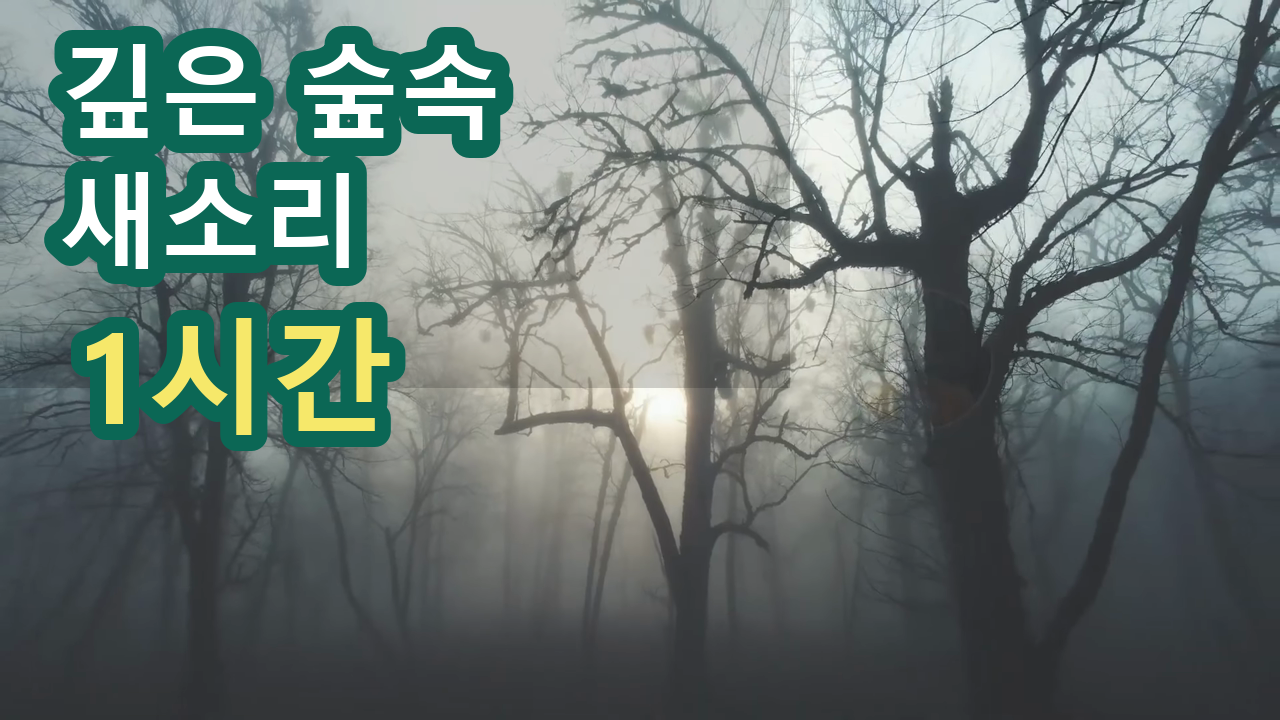
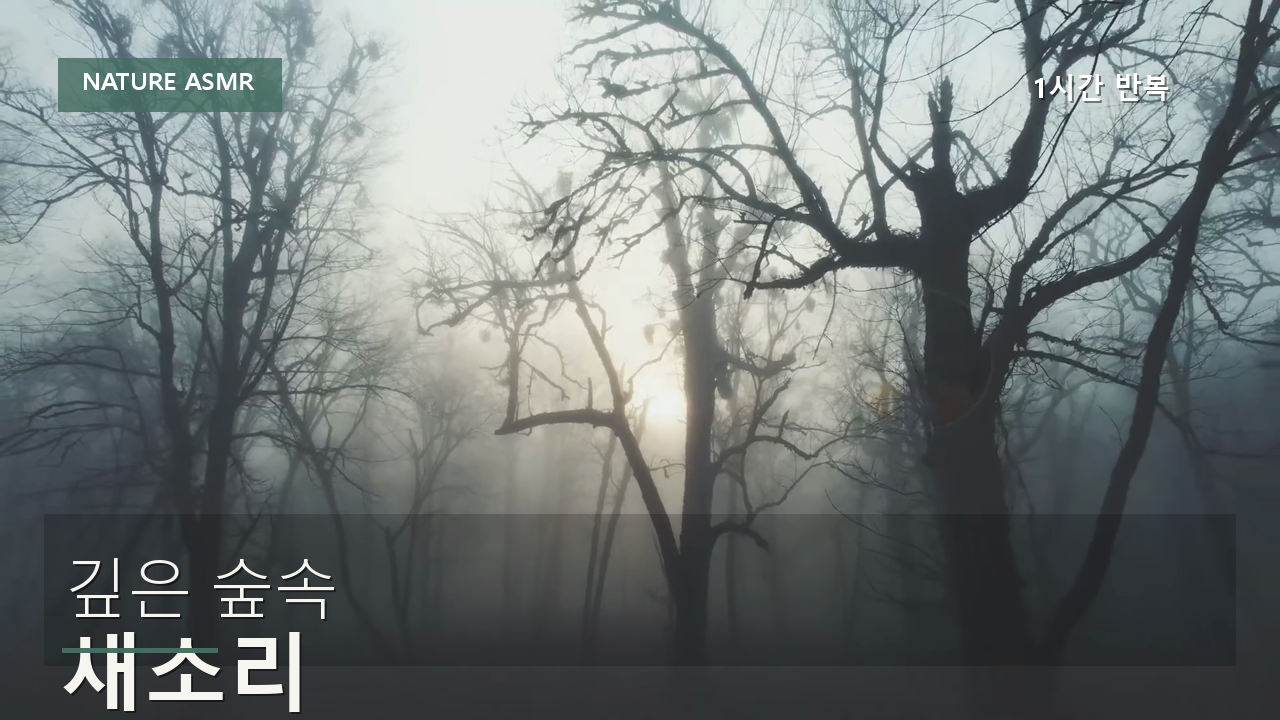
Unify nature series thumbnails

diff --git a/scripts/refresh-nature-series-thumbnails.ts b/scripts/refresh-nature-series-thumbnails.ts
@@ -14,11 +14,11 @@ interface ThemeThumbnailSpec {
   footageFileName: string;
   frameSeconds: number;
   headlineLines: [string, string];
-  accentFill: string;
-  accentBorder: string;
 }
 
+const FONT_REGULAR = "C\\:/Windows/Fonts/malgunsl.ttf";
 const FONT_BOLD = "C\\:/Windows/Fonts/malgunbd.ttf";
+const ACCENT_FILL = "#456e63";
 
 const SPECS: ThemeThumbnailSpec[] = [
   {
@@ -26,90 +26,70 @@ const SPECS: ThemeThumbnailSpec[] = [
     videoId: "SFJxRnk1O7o",
     footageFileName: "foggy-forest-motion-1775741289679.webm",
     frameSeconds: 46,
-    headlineLines: ["깊은 숲속", "새소리"],
-    accentFill: "#f6e86a",
-    accentBorder: "#0b6755"
+    headlineLines: ["깊은 숲속", "새소리"]
   },
   {
     key: "day-ocean",
     videoId: "sNB7BTSs99o",
     footageFileName: "sunny-day-ocean-shore-motion-1775743467908.webm",
     frameSeconds: 2.2,
-    headlineLines: ["햇살 비치는", "낮 바다"],
-    accentFill: "#f6e86a",
-    accentBorder: "#0c6172"
+    headlineLines: ["햇살 비치는", "낮 바다"]
   },
   {
     key: "mountain-wind",
     videoId: "hzjDhwblWcM",
     footageFileName: "steens-mountain-wind-motion-1775886682801.webm",
     frameSeconds: 2.2,
-    headlineLines: ["깊은 산속", "바람소리"],
-    accentFill: "#f6e86a",
-    accentBorder: "#0f5b4c"
+    headlineLines: ["깊은 산속", "바람소리"]
   },
   {
     key: "valley-stream",
     videoId: "aWldGQIC4Ac",
     footageFileName: "south-fork-creek-valley-motion-1775661819099.webm",
     frameSeconds: 2.2,
-    headlineLines: ["맑은 계곡물", "소리"],
-    accentFill: "#f6e86a",
-    accentBorder: "#0f6275"
+    headlineLines: ["맑은 계곡물", "소리"]
   },
   {
     key: "night-sea",
     videoId: "fOxjWxNz_nQ",
     footageFileName: "night-sea-shore-motion-1775896117340.webm",
     frameSeconds: 2.2,
-    headlineLines: ["잔잔한", "밤바다"],
-    accentFill: "#f6e86a",
-    accentBorder: "#123d62"
+    headlineLines: ["잔잔한", "밤바다"]
   },
   {
     key: "rain",
     videoId: "WGf9Wmvlh7g",
     footageFileName: "lost-lake-forest-rain-motion-1775659572611.webm",
     frameSeconds: 2.2,
-    headlineLines: ["호숫가", "새소리"],
-    accentFill: "#f6e86a",
-    accentBorder: "#0f5b4c"
+    headlineLines: ["호숫가", "새소리"]
   },
   {
     key: "waterfall",
     videoId: "wc_OhY9jmOk",
     footageFileName: "forest-waterfall-cascade-motion-1775897198539.webm",
     frameSeconds: 1.2,
-    headlineLines: ["시원한 폭포", "물소리"],
-    accentFill: "#f6e86a",
-    accentBorder: "#0b6755"
+    headlineLines: ["시원한 폭포", "물소리"]
   },
   {
     key: "snow-forest",
     videoId: "YQyTEHGE7Kw",
     footageFileName: "snow-forest-still-motion-1775899873973.mp4",
     frameSeconds: 1,
-    headlineLines: ["눈 덮인", "겨울 숲"],
-    accentFill: "#f6e86a",
-    accentBorder: "#264a6b"
+    headlineLines: ["눈 덮인", "겨울 숲"]
   },
   {
     key: "meadow-breeze",
     videoId: "E_-kX5Q4K2o",
     footageFileName: "windblown-meadow-motion-1775901940500.webm",
     frameSeconds: 1.2,
-    headlineLines: ["초원 위", "산들바람"],
-    accentFill: "#f6e86a",
-    accentBorder: "#436124"
+    headlineLines: ["초원 위", "산들바람"]
   },
   {
     key: "lakeside-dusk",
     videoId: "R3IhAfYWxqs",
     footageFileName: "lakeside-dusk-still-motion-1775910730235.mp4",
     frameSeconds: 1,
-    headlineLines: ["노을 지는", "호숫가"],
-    accentFill: "#f6e86a",
-    accentBorder: "#70461d"
+    headlineLines: ["노을 지는", "호숫가"]
   }
 ];
 
@@ -149,7 +129,7 @@ async function main() {
 
     const results: Array<{ key: string; videoId: string; thumbnailPath: string }> = [];
 
-    for (const spec of targets) {
+    for (const [index, spec] of targets.entries()) {
       const footagePath = path.join(footageDir, spec.footageFileName);
       const framePath = path.join(tempDir, `${spec.key}-frame.png`);
       const thumbnailPath = path.join(outputDir, `${spec.key}.png`);
@@ -171,6 +151,10 @@ async function main() {
           videoId: spec.videoId,
           thumbnailFilePath: thumbnailPath
         });
+
+        if (index < targets.length - 1) {
+          await sleep(150000);
+        }
       }
 
       results.push({
@@ -180,16 +164,7 @@ async function main() {
       });
     }
 
-    console.log(
-      JSON.stringify(
-        {
-          refreshed: results,
-          renderOnly
-        },
-        null,
-        2
-      )
-    );
+    console.log(JSON.stringify({ refreshed: results, renderOnly }, null, 2));
   } finally {
     await rm(tempDir, { recursive: true, force: true });
   }
@@ -218,7 +193,7 @@ async function loadLocalEnv() {
       }
     }
   } catch {
-    // env already populated
+    // env already loaded
   }
 }
 
@@ -262,13 +237,18 @@ async function renderThumbnail(input: {
 function buildThumbnailFilter(spec: ThemeThumbnailSpec) {
   const headline1 = escapeDrawtext(spec.headlineLines[0]);
   const headline2 = escapeDrawtext(spec.headlineLines[1]);
-  const duration = escapeDrawtext("1시간");
+  const badge = escapeDrawtext("NATURE ASMR");
+  const duration = escapeDrawtext("1시간 반복");
 
   const parts = [
-    "drawbox=x=0:y=0:w=790:h=388:color=black@0.18:t=fill",
-    `drawtext=fontfile='${FONT_BOLD}':text='${headline1}':fontcolor=white:fontsize=102:borderw=18:bordercolor=${spec.accentBorder}:x=58:y=44`,
-    `drawtext=fontfile='${FONT_BOLD}':text='${headline2}':fontcolor=white:fontsize=102:borderw=18:bordercolor=${spec.accentBorder}:x=58:y=172`,
-    `drawtext=fontfile='${FONT_BOLD}':text='${duration}':fontcolor=${spec.accentFill}:fontsize=124:borderw=16:bordercolor=${spec.accentBorder}:x=74:y=318`
+    "drawbox=x=0:y=0:w=1280:h=720:color=black@0.04:t=fill",
+    "drawbox=x=44:y=514:w=1192:h=152:color=black@0.18:t=fill",
+    `drawbox=x=58:y=58:w=224:h=54:color=${ACCENT_FILL}@0.82:t=fill`,
+    `drawtext=fontfile='${FONT_BOLD}':text='${badge}':fontcolor=white:fontsize=24:x=82:y=73`,
+    `drawtext=fontfile='${FONT_BOLD}':text='${duration}':fontcolor=white:fontsize=28:shadowcolor=black@0.45:shadowx=2:shadowy=2:x=1032:y=73`,
+    `drawtext=fontfile='${FONT_REGULAR}':text='${headline1}':fontcolor=#f7f5ef:fontsize=64:shadowcolor=black@0.48:shadowx=2:shadowy=2:x=64:y=558`,
+    `drawtext=fontfile='${FONT_BOLD}':text='${headline2}':fontcolor=#f7f5ef:fontsize=84:shadowcolor=black@0.48:shadowx=2:shadowy=2:x=60:y=632`,
+    `drawbox=x=62:y=648:w=156:h=5:color=${ACCENT_FILL}@0.98:t=fill`
   ];
 
   return parts.join(",");
@@ -313,7 +293,7 @@ async function setThumbnailWithRetry(
     thumbnailFilePath: string;
   }
 ) {
-  const delays = [0, 30_000, 90_000];
+  const delays = [0, 60000, 180000];
   let lastError: unknown;
 
   for (const delay of delays) {

diff --git a/scripts/complete-youtube-auth.ts b/scripts/complete-youtube-auth.ts
@@ -1,0 +1,61 @@
+import { readFile } from "node:fs/promises";
+import path from "node:path";
+
+import { exchangeCodeForToken } from "../lib/youtube-auth";
+
+async function main() {
+  await loadLocalEnv();
+
+  const input = (process.argv.slice(2).join(" ").trim() || process.env.OAUTH_CALLBACK_URL?.trim() || "");
+  if (!input) {
+    throw new Error("Pass the full callback URL or a code value.");
+  }
+
+  let code = input;
+  let state: string | undefined;
+
+  if (input.startsWith("http://") || input.startsWith("https://")) {
+    const url = new URL(input);
+    code = url.searchParams.get("code") ?? "";
+    state = url.searchParams.get("state") ?? undefined;
+  }
+
+  if (!code) {
+    throw new Error("Could not find an OAuth code in the provided input.");
+  }
+
+  const result = await exchangeCodeForToken(code, state);
+  console.log(JSON.stringify(result, null, 2));
+}
+
+async function loadLocalEnv() {
+  const envPath = path.join(process.cwd(), ".env.local");
+
+  try {
+    const raw = await readFile(envPath, "utf8");
+    for (const line of raw.split(/\r?\n/)) {
+      const trimmed = line.trim();
+      if (!trimmed || trimmed.startsWith("#")) {
+        continue;
+      }
+
+      const idx = trimmed.indexOf("=");
+      if (idx <= 0) {
+        continue;
+      }
+
+      const key = trimmed.slice(0, idx).trim();
+      const value = trimmed.slice(idx + 1).trim();
+      if (!process.env[key]) {
+        process.env[key] = value;
+      }
+    }
+  } catch {
+    // ignore
+  }
+}
+
+main().catch((error) => {
+  console.error(error instanceof Error ? error.message : error);
+  process.exitCode = 1;
+});

diff --git a/scripts/print-youtube-auth-url.ts b/scripts/print-youtube-auth-url.ts
@@ -1,0 +1,42 @@
+import { readFile } from "node:fs/promises";
+import path from "node:path";
+
+import { createAuthUrl } from "../lib/youtube-auth";
+
+async function main() {
+  await loadLocalEnv();
+  const url = await createAuthUrl();
+  console.log(url);
+}
+
+async function loadLocalEnv() {
+  const envPath = path.join(process.cwd(), ".env.local");
+
+  try {
+    const raw = await readFile(envPath, "utf8");
+    for (const line of raw.split(/\r?\n/)) {
+      const trimmed = line.trim();
+      if (!trimmed || trimmed.startsWith("#")) {
+        continue;
+      }
+
+      const idx = trimmed.indexOf("=");
+      if (idx <= 0) {
+        continue;
+      }
+
+      const key = trimmed.slice(0, idx).trim();
+      const value = trimmed.slice(idx + 1).trim();
+      if (!process.env[key]) {
+        process.env[key] = value;
+      }
+    }
+  } catch {
+    // ignore
+  }
+}
+
+main().catch((error) => {
+  console.error(error instanceof Error ? error.message : error);
+  process.exitCode = 1;
+});
